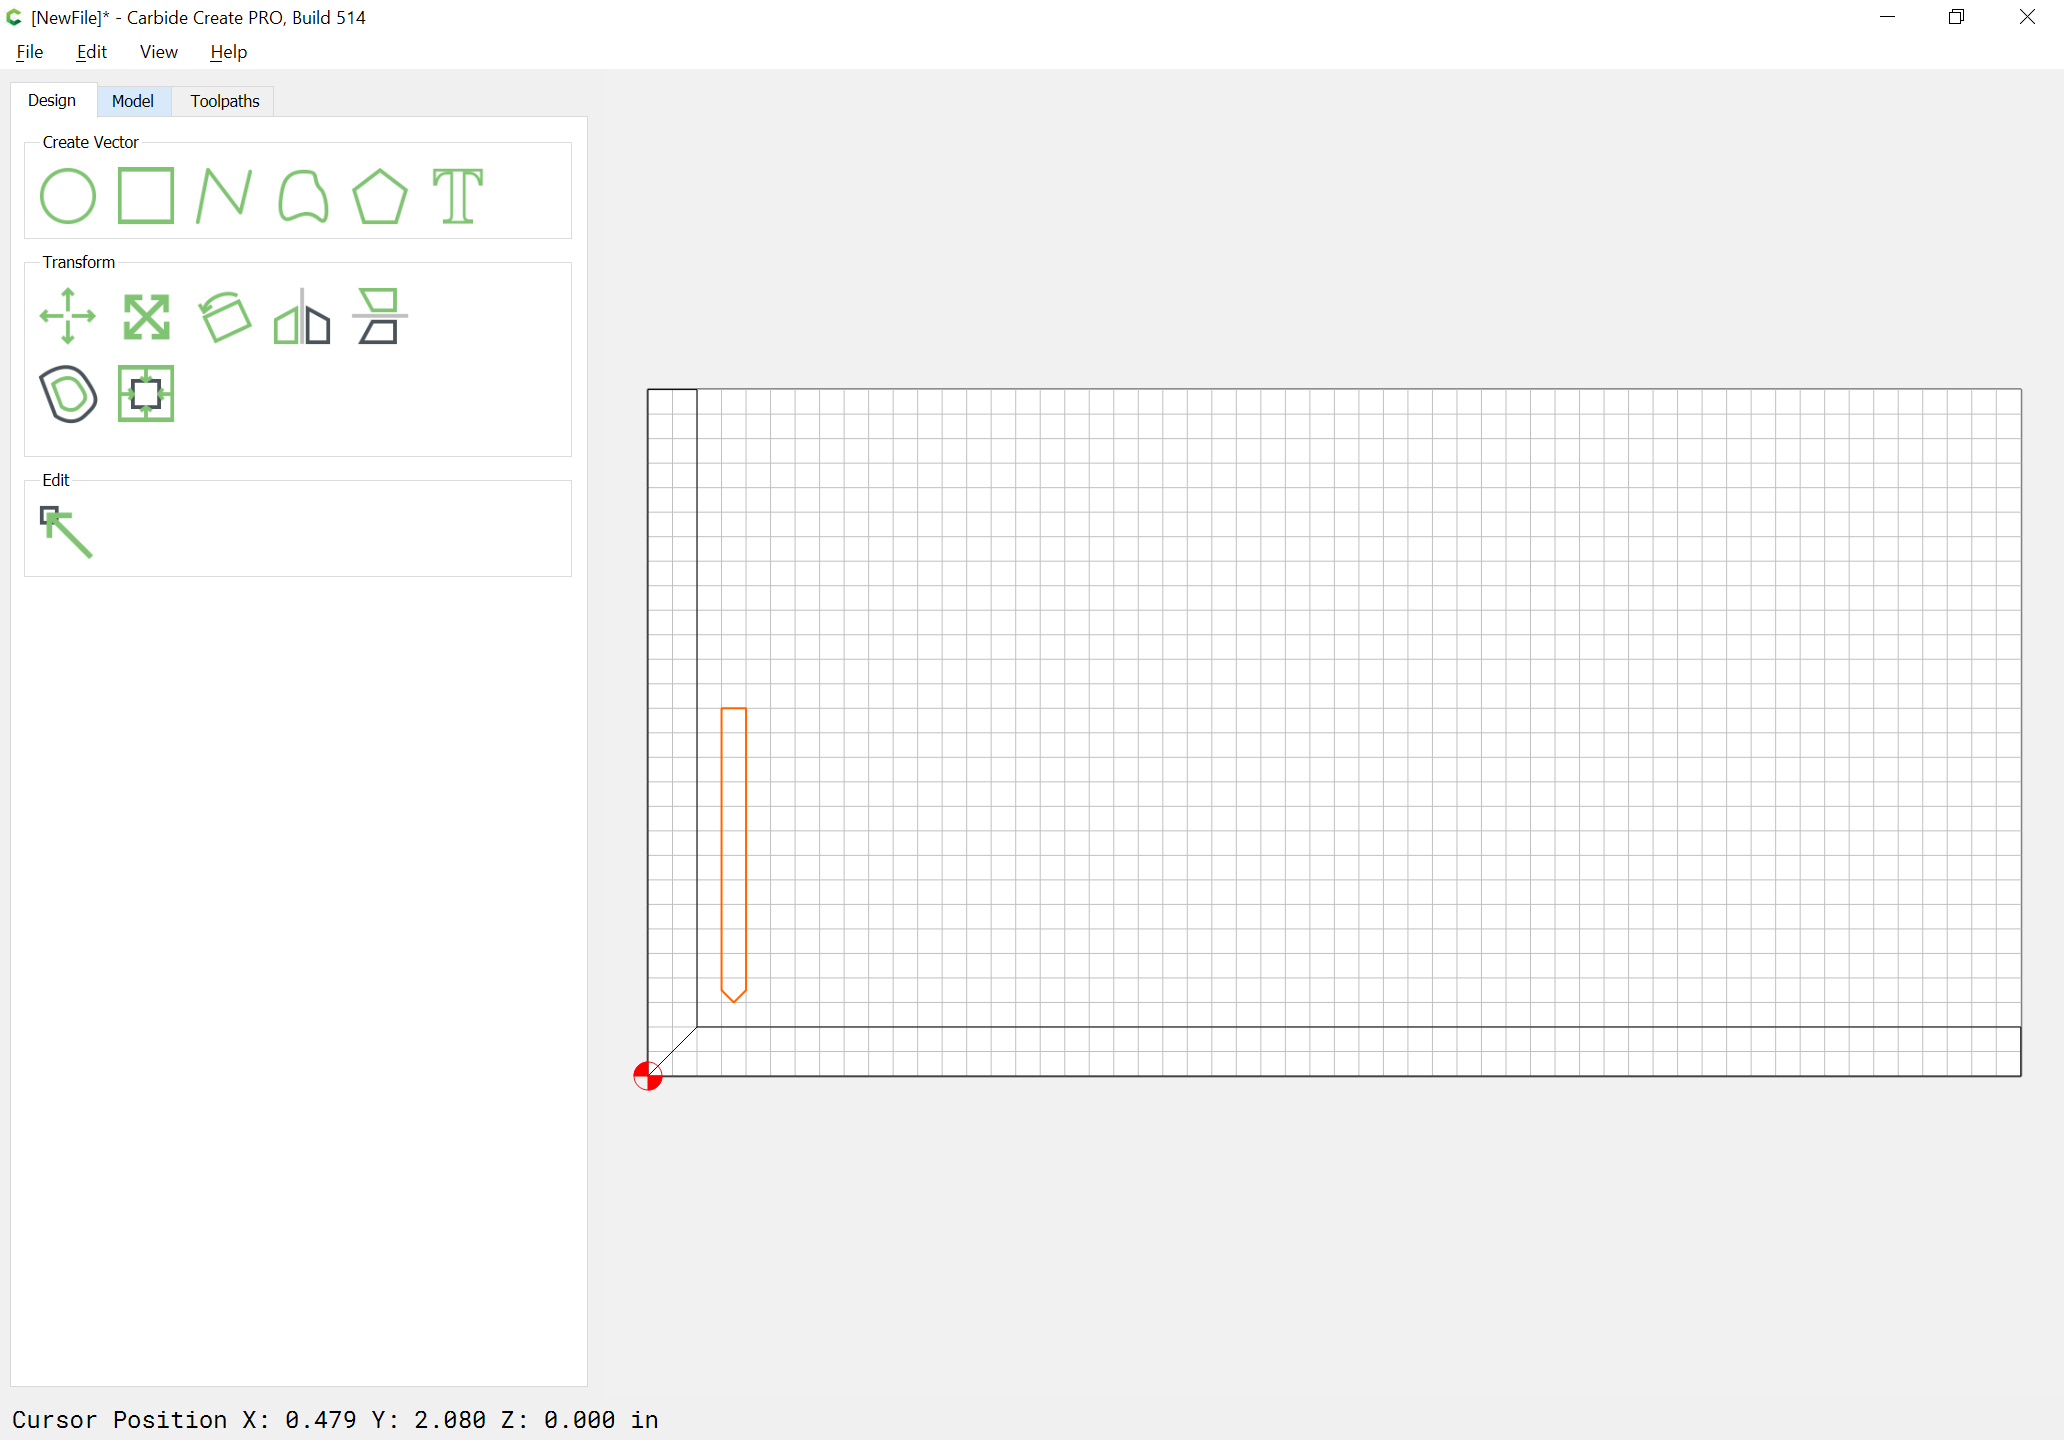
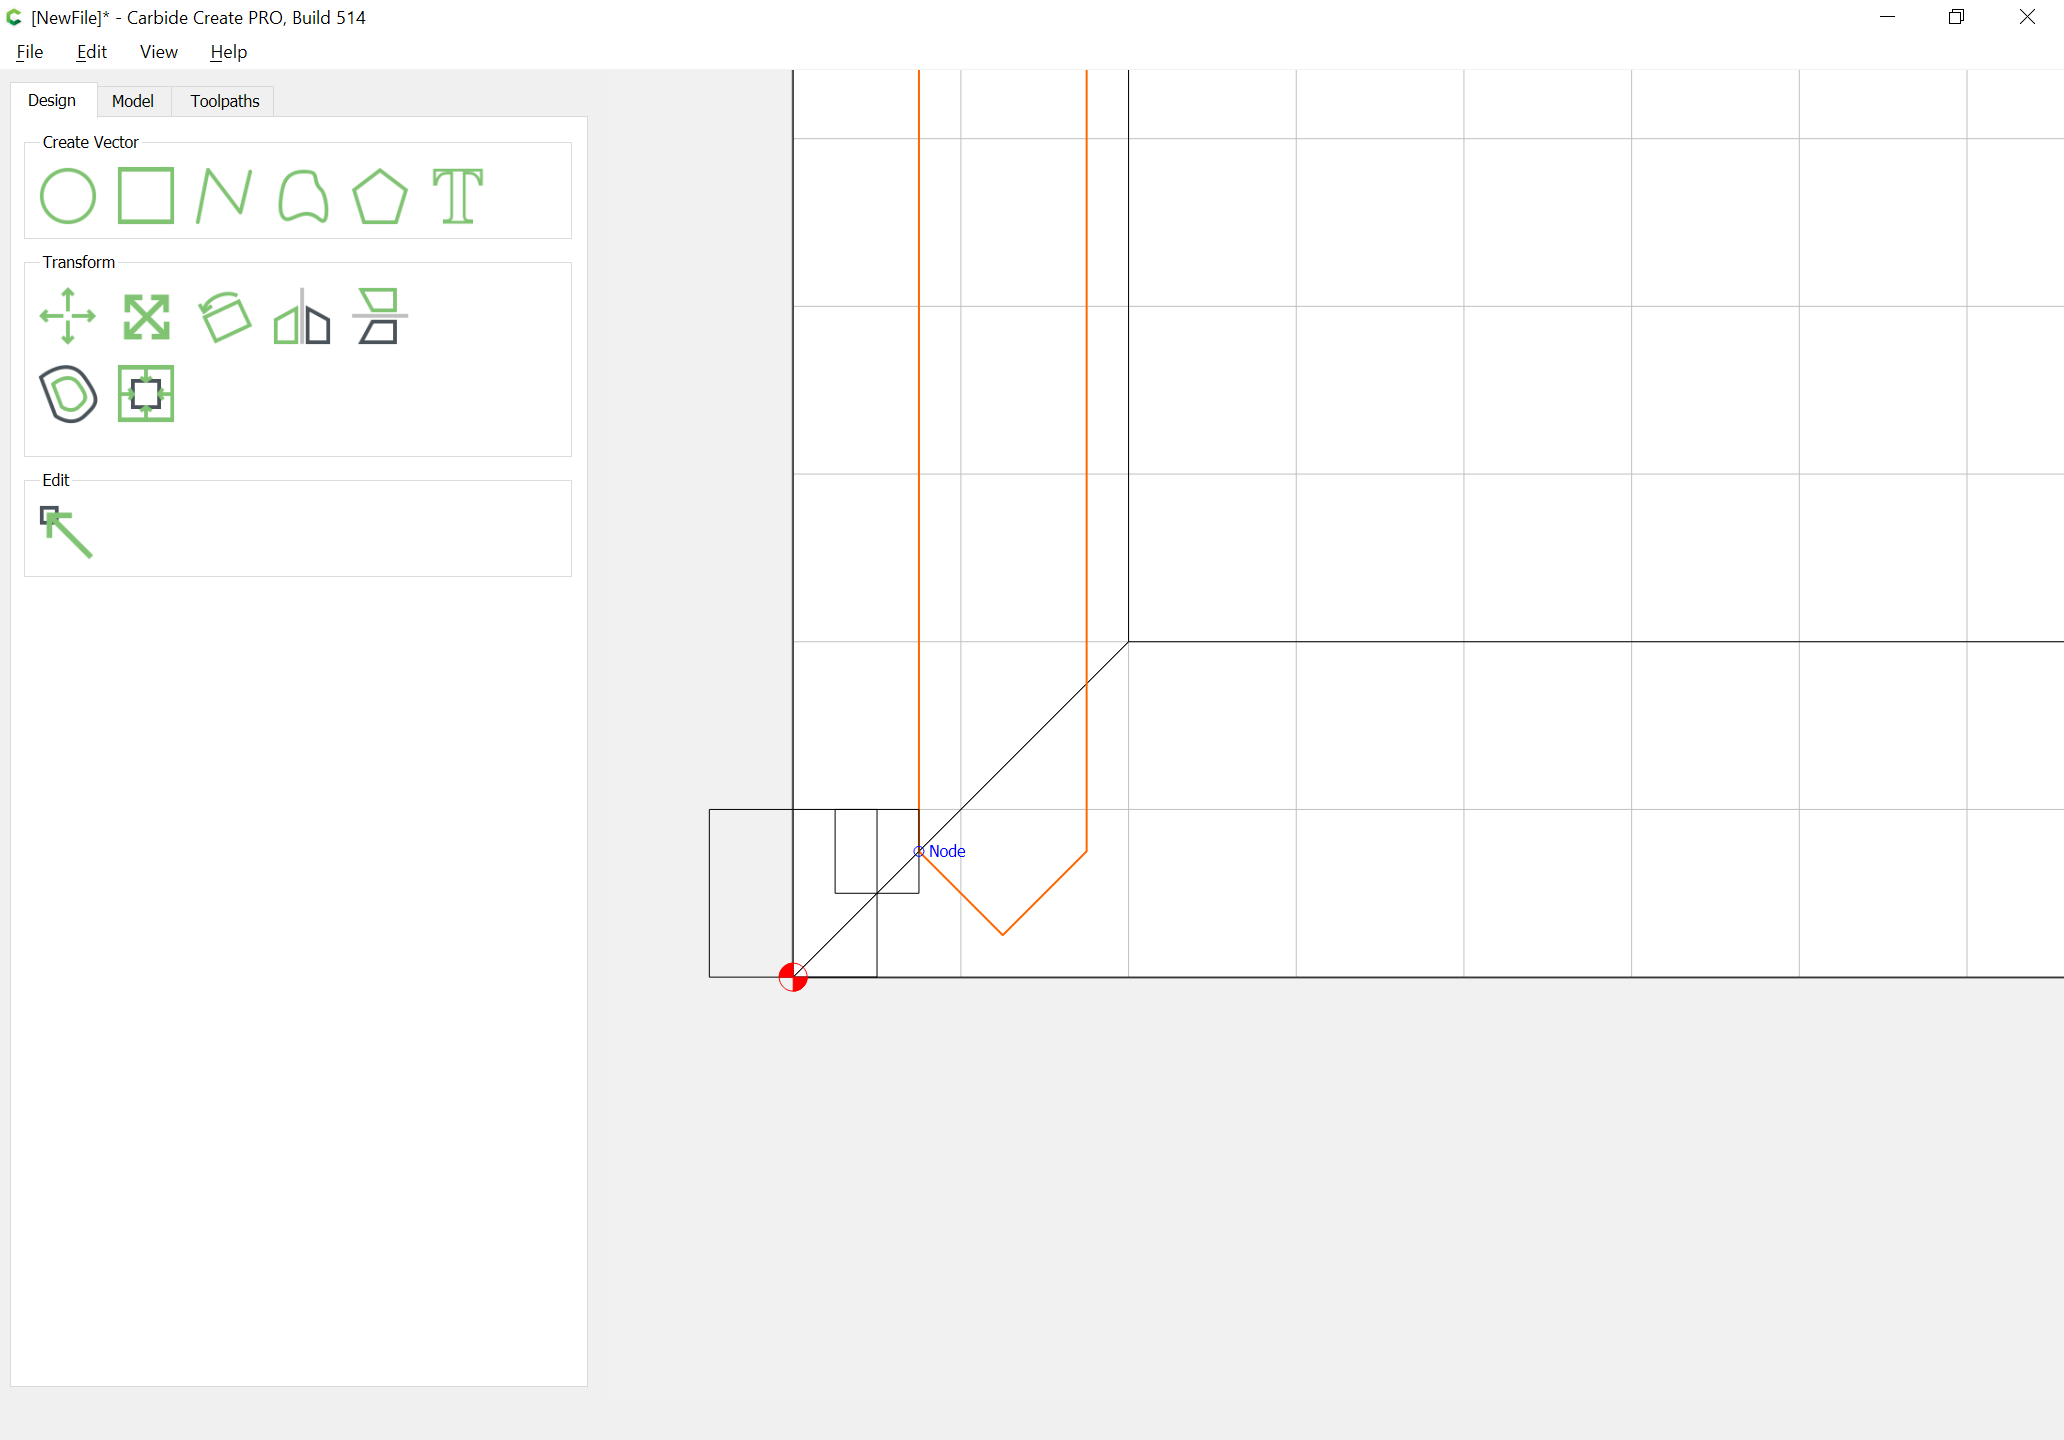
GitBook: [master] one page and 6 assets modified

diff --git a/blind-miter-and-hidden-spline.md b/blind-miter-and-hidden-spline.md
@@ -6,7 +6,15 @@ description: Ninety degree joints with 90 degree V bits and minimal voids
 
 While modern adhesives are surprisingly able to allow one to simply cut and glue miters \(esp. if one is willing to add a few nails\), adding a hidden spline will create a much stronger joint. 
 
-![Basic Miter Joint \(overhead view\)](.gitbook/assets/image%20%2832%29.png)
+![Basic Miter Joint \(overhead view\)](.gitbook/assets/image%20%2834%29.png)
 
-![Blind Miter Joint and profile of smaller V endmill](.gitbook/assets/image%20%2831%29.png)
+![Blind Miter Joint and profile of smaller V endmill](.gitbook/assets/image%20%2833%29.png)
+
+![Blind Miter Joint with smaller V endmill positioned](.gitbook/assets/image%20%2831%29.png)
+
+![Blind Miter Joint and hidden spline profile](.gitbook/assets/image%20%2835%29.png)
+
+![Blind Miter Joint and hidden spline profile](.gitbook/assets/image%20%2836%29.png)
+
+![Blind Miter Joint and hidden spline profile unfolded](.gitbook/assets/image%20%2832%29.png)
 
